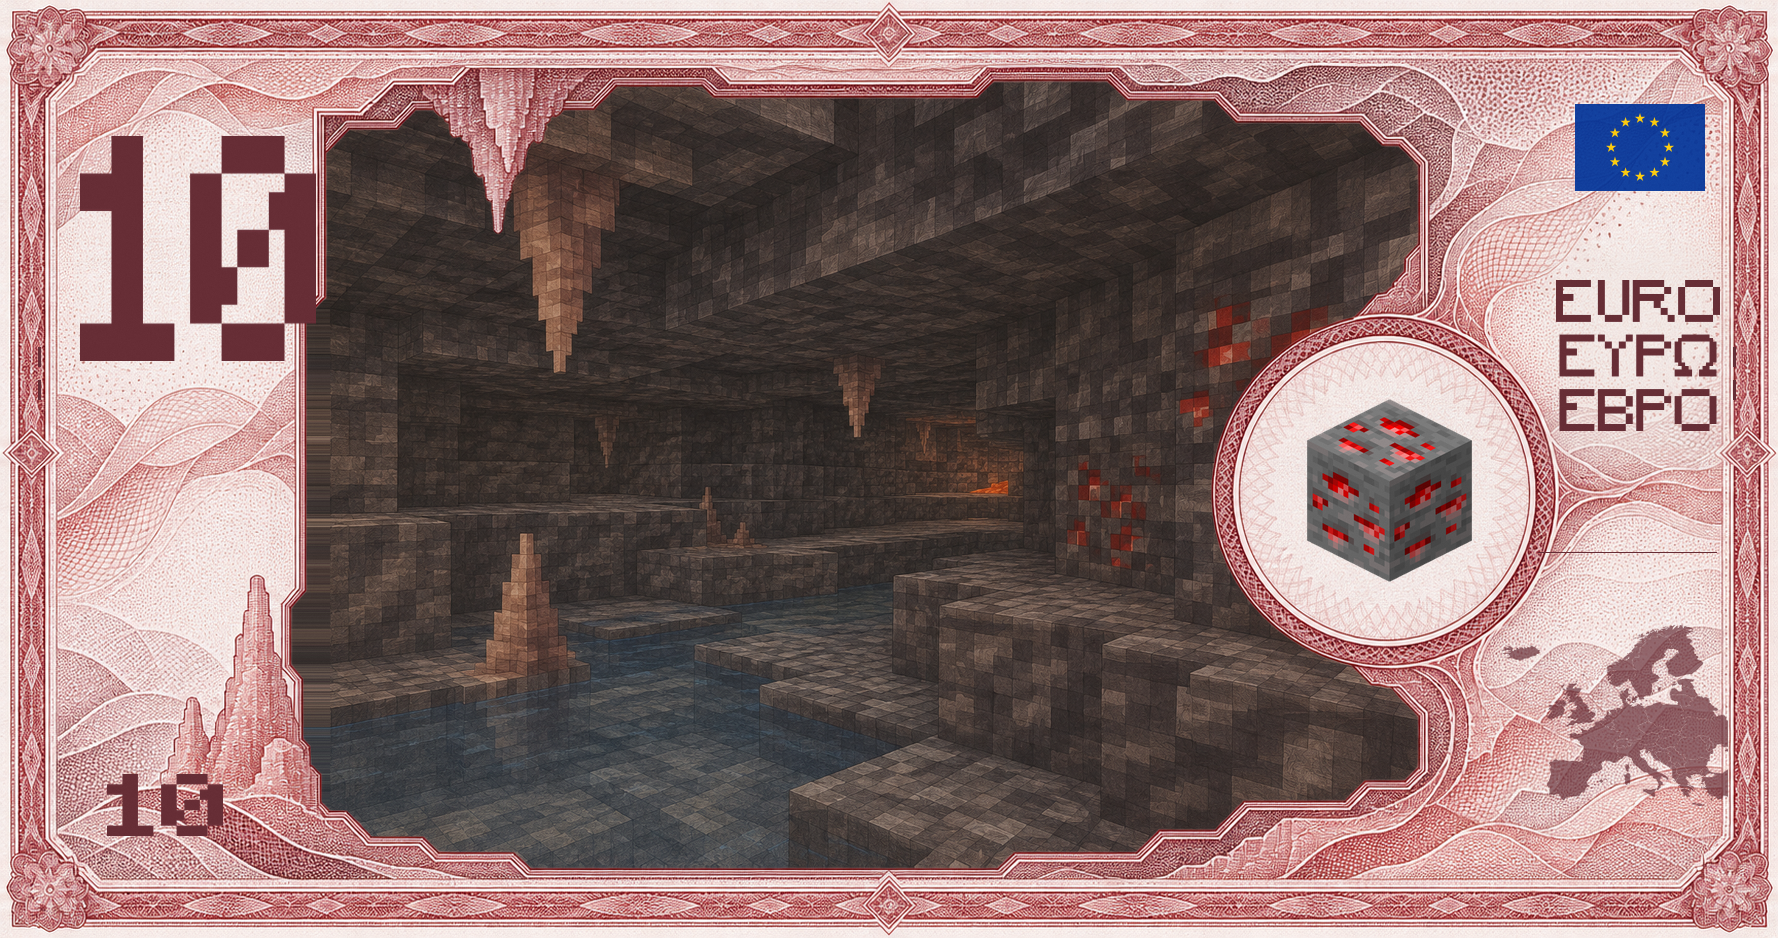
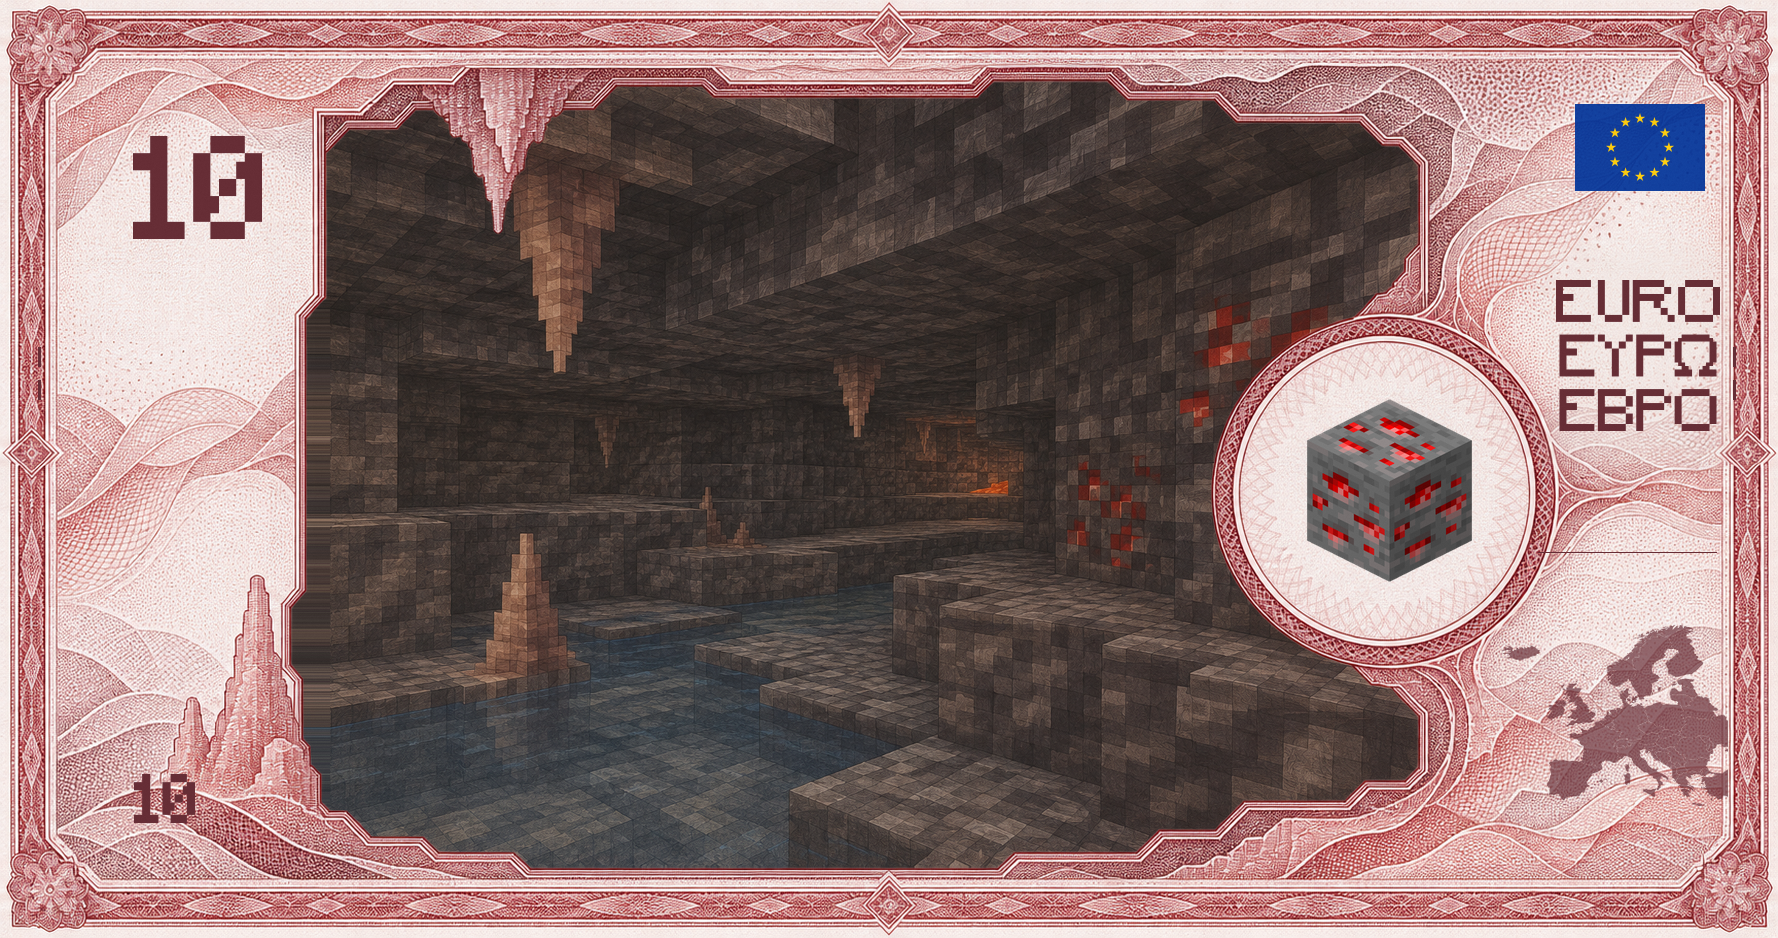
fix note value proportions and ore alignment
Render denomination outlines at a shared cap height while preserving their natural SVG aspect ratio, and centre them horizontally in each value box. Add normalized cap-height controls for the large and repeated denomination marks.

Calibrate recto ore placements against each generated seal, retaining the existing 5 and 10 positions. Rebuild all twelve note exports and the contact sheet, and make the verifier assert ore-to-seal centring.

Changed region(s): [[0.0309, 0.1237, 0.1856, 0.4019], [0.0619, 0.8038, 0.1237, 0.8966]]

diff --git a/minecraft/runs/v8 design-package veryhigh/scripts/project.py b/minecraft/runs/v8 design-package veryhigh/scripts/project.py
@@ -1,13 +1,16 @@
 from pathlib import Path
+from functools import cache
 import yaml,subprocess,io,hashlib
 import numpy as np
 from PIL import Image,ImageOps,ImageDraw,ImageFilter
 ROOT=Path(__file__).resolve().parents[1]
 LANCZOS=Image.Resampling.LANCZOS
+@cache
 def config():return yaml.safe_load((ROOT/'layout.yaml').read_text())
-def svg(path,width):
+def svg(path,width=None,height=None):
  path=ROOT/path
- r=subprocess.run(['inkscape',str(path),'--export-type=png','--export-filename=-',f'--export-width={width}'],capture_output=True,check=True)
+ dimension=f'--export-width={width}' if width is not None else f'--export-height={height}'
+ r=subprocess.run(['inkscape',str(path),'--export-type=png','--export-filename=-',dimension],capture_output=True,check=True)
  return Image.open(io.BytesIO(r.stdout)).convert('RGBA')
 def box(b,size):return tuple(round(v*size[i%2]) for i,v in enumerate(b))
 def layer(size):return Image.new('RGBA',size)
@@ -24,14 +27,18 @@ def fixed(d,proxy=False):
  for name,b in d['fixed'].items():
   x,y,w,h=box(b,size)
   if proxy:draw.rounded_rectangle((x,y,x+w,y+h),radius=2,fill='#d7c2dd90',outline='#805c8c');continue
-  if name in ['value','repeat']:asset=svg(f"assets/derived/value-{d['value']}.svg",w)
+  if name in ['value','repeat']:
+   target_height=round(config()['value_cap_heights'][name]*size[1]);asset=svg(f"assets/derived/value-{d['value']}.svg",height=target_height)
   elif name=='scripts':asset=svg('assets/derived/euro-scripts.svg',w)
   elif name=='flag':asset=svg('assets/supplied/europe-flag.svg',w);asset.putalpha(asset.getchannel('A').point(lambda a:round(a*.92)))
   elif name=='map':asset=svg('assets/supplied/europe-map.svg',w)
   else:continue
   if name!='flag':
    alpha=asset.getchannel('A');asset=Image.new('RGBA',asset.size,ink);asset.putalpha(alpha.point(lambda a:round(a*(.70 if name=='map' else 1))))
-  put(im,asset,b,contain=name not in ['value','repeat'])
+  if name in ['value','repeat']:
+   if asset.width>w or asset.height>h:raise ValueError(f"{d['value']} {name} does not fit its layout box")
+   im.alpha_composite(asset,(x+(w-asset.width)//2,y))
+  else:put(im,asset,b)
  # Recto insert remains separate from the generated shell.
  if d['side']=='recto':
   b=d['ore_box'];x,y,w,h=box(b,size)

diff --git a/minecraft/runs/v8 design-package veryhigh/scripts/verify_build.py b/minecraft/runs/v8 design-package veryhigh/scripts/verify_build.py
@@ -7,11 +7,13 @@ def main():
  ds=config()['designs'];expected={5:(1800,930),10:(1778,938),20:(1729,936),50:(1700,935),100:(1617,902),200:(1683,902)}
  for ident,d in ds.items():
   path=ROOT/d['export'];im=Image.open(path);assert im.size==tuple(d['size'])==expected[d['value']],ident;assert im.mode=='RGB',ident
+  if d['side']=='recto':
+   x,y,w,h=d['ore_box'];cx,cy=d['label_center'];assert abs(x+w/2-cx)*d['size'][0]<=3 and abs(y+h/2-cy)*d['size'][1]<=3,f'{ident}: ore is not centred on label'
   before=hashlib.sha256(path.read_bytes()).hexdigest();build(ident,d);after=hashlib.sha256(path.read_bytes()).hexdigest();assert before==after,f'{ident}: rebuild differs'
  old=TTFont(ROOT/'assets/supplied/inputs/Minecraft.ttf');new=TTFont(ROOT/'assets/approved/Minecraft-Crafting-Europe.ttf')
  for n in old.getGlyphOrder():
   a=RecordingPen();b=RecordingPen();old.getGlyphSet()[n].draw(a);new.getGlyphSet()[n].draw(b);assert a.value==b.value,n;assert old['hmtx'][n]==new['hmtx'][n],n
  for k,v in old.getBestCmap().items():assert new.getBestCmap()[k]==v
  for ch in 'EUROΕΥΡΩЕВРО0123456789':assert ord(ch) in new.getBestCmap()
- print('Verified twelve exact-size RGB notes; every PNG rebuilt identically; source font outlines, metrics and mappings retained; required script glyphs present.')
+ print('Verified twelve exact-size RGB notes; every PNG rebuilt identically; ore inserts centred; source font outlines, metrics and mappings retained; required script glyphs present.')
 if __name__=='__main__':main()

diff --git a/minecraft/runs/v8 design-package veryhigh/README.md b/minecraft/runs/v8 design-package veryhigh/README.md
@@ -21,7 +21,7 @@ The delivered outputs were checked with `python scripts/verify_build.py`: exact 
 
 `layout.yaml` controls dimensions, exports, scene crop, asset boxes, edge extension, colours, paper-grain seed and layer order. Coordinates are normalized xywh boxes. All paths are relative to this root. Primary plates are fitted to their recorded boxes at the recorded centre; a small edge-pixel extension underneath the decorative frame prevents paper seams without changing the visible approved composition. Monetary plates are resized to the final canvas; their original generated dimensions and alpha are preserved in the source PNGs.
 
-Value outlines are fitted to their boxes as controlled monetary lettering, with a common top and cap-height alignment. The three euro scripts are one outlined SVG object with common capital height, natural spacing and centred lines. The Europe map and flag use the supplied SVG geometry; the map receives a uniform denomination ink and 70 percent alpha. The flag has restrained overprint opacity. Original ore rasters are cropped only to alpha bounds and fitted at a common scale. A feathered paper underprint supports script legibility over dense ornament. A seeded fine paper grain is applied after composition. Signature and serial areas are design reservations, not issued identifiers. Edge mark groups are a visual tactile concept, not a physical production specification.
+Value outlines preserve the font's natural aspect ratio and use the shared normalized cap heights in `layout.yaml`, with common top alignment and horizontal centring inside their boxes. The three euro scripts are one outlined SVG object with common capital height, natural spacing and centred lines. The Europe map and flag use the supplied SVG geometry; the map receives a uniform denomination ink and 70 percent alpha. The flag has restrained overprint opacity. Original ore rasters are cropped only to alpha bounds and fitted at a common scale. Each recto ore box is centred on the calibrated centre of its generated seal. A feathered paper underprint supports script legibility over dense ornament. A seeded fine paper grain is applied after composition. Signature and serial areas are design reservations, not issued identifiers. Edge mark groups are a visual tactile concept, not a physical production specification.
 
 Changing only fixed assets or coordinates needs no image generation. Replacing a primary requires review of its dependent context and monetary artwork. `generation-record.yaml` gives that relationship and prompt paths.
 
